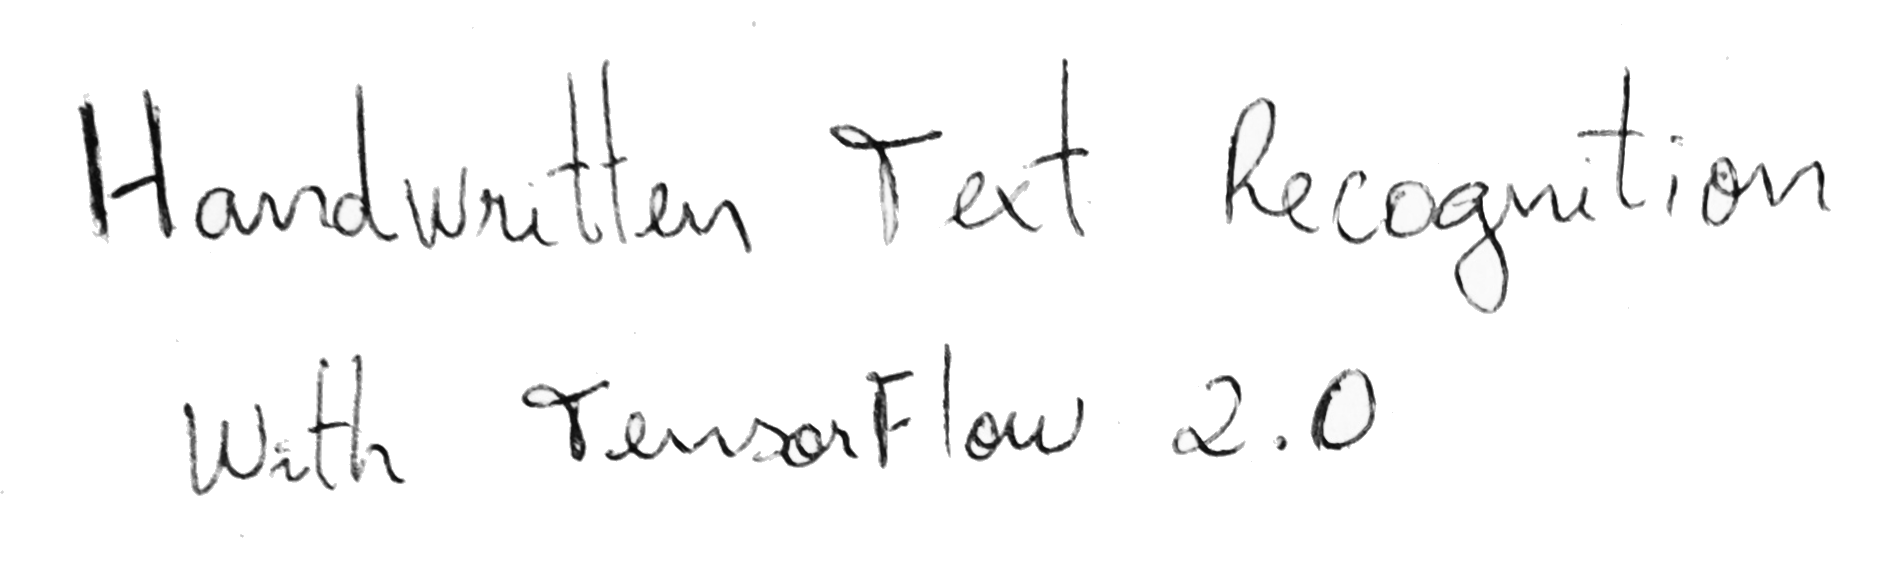
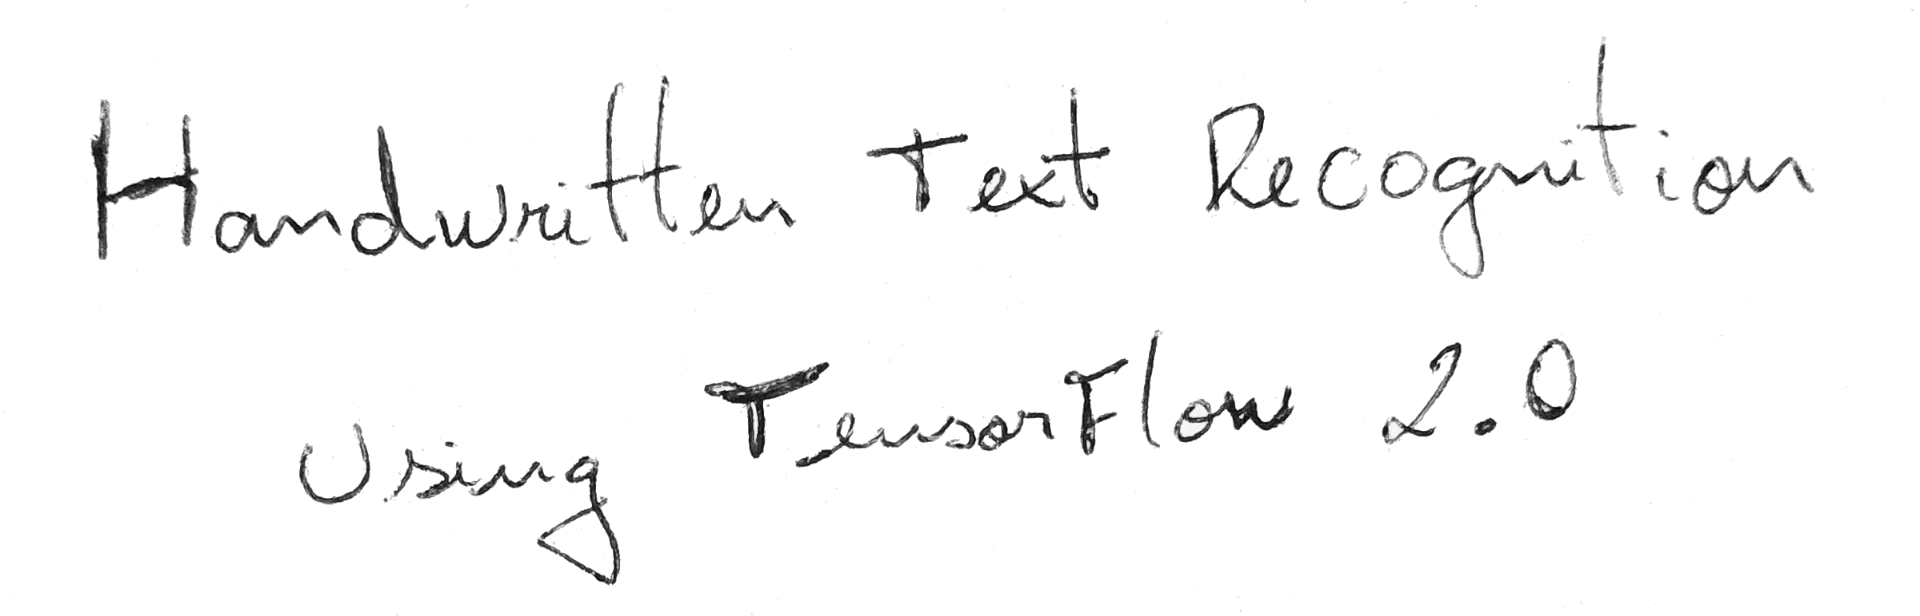
update Tensorflow 2.0 beta1

diff --git a/src/network/model.py b/src/network/model.py
@@ -514,7 +514,7 @@ class HTRModel:
                 update_freq="epoch"),
             ModelCheckpoint(
                 filepath=os.path.join(logdir, hdf5_target),
-                period=1,
+                save_freq=1,
                 monitor="val_loss",
                 save_best_only=True,
                 save_weights_only=True,

diff --git a/README.md b/README.md
@@ -1,6 +1,6 @@
 <img src="https://github.com/arthurflor23/handwritten-text-recognition/blob/master/doc/images/000.png?raw=true">
 
-Handwritten Text Recognition (HTR) system implemented with TensorFlow 2.0 and trained on the Bentham/IAM/Rimes/Saint Gall offline HTR datasets. This Neural Network model recognizes the text contained in the images of segmented texts lines.
+Handwritten Text Recognition (HTR) system implemented using TensorFlow 2.0 and trained on the Bentham/IAM/Rimes/Saint Gall offline HTR datasets. This Neural Network model recognizes the text contained in the images of segmented texts lines.
 
 Data partitioning (train, validation, test) was performed following the methodology of each dataset. The project implemented the HTRModel abstraction model (adapted from the [CTCModel](https://github.com/ysoullard/CTCModel)) as a way to facilitate the development of HTR systems.
 
@@ -33,8 +33,8 @@ d. [Saint Gall](http://www.fki.inf.unibe.ch/databases/iam-historical-document-da
 * `--arch`: network to be used (puigcerver, bluche, flor)
 * `--transform`: transform dataset to the HDF5 file
 * `--cv2`: visualize sample from transformed dataset
-* `--train`: train model with the dataset argument
-* `--test`: evaluate and predict model with the dataset argument
+* `--train`: train model using the dataset argument
+* `--test`: evaluate and predict model using the dataset argument
 * `--epochs`: number of epochs
 * `--batch_size`: number of the size of each batch
 
